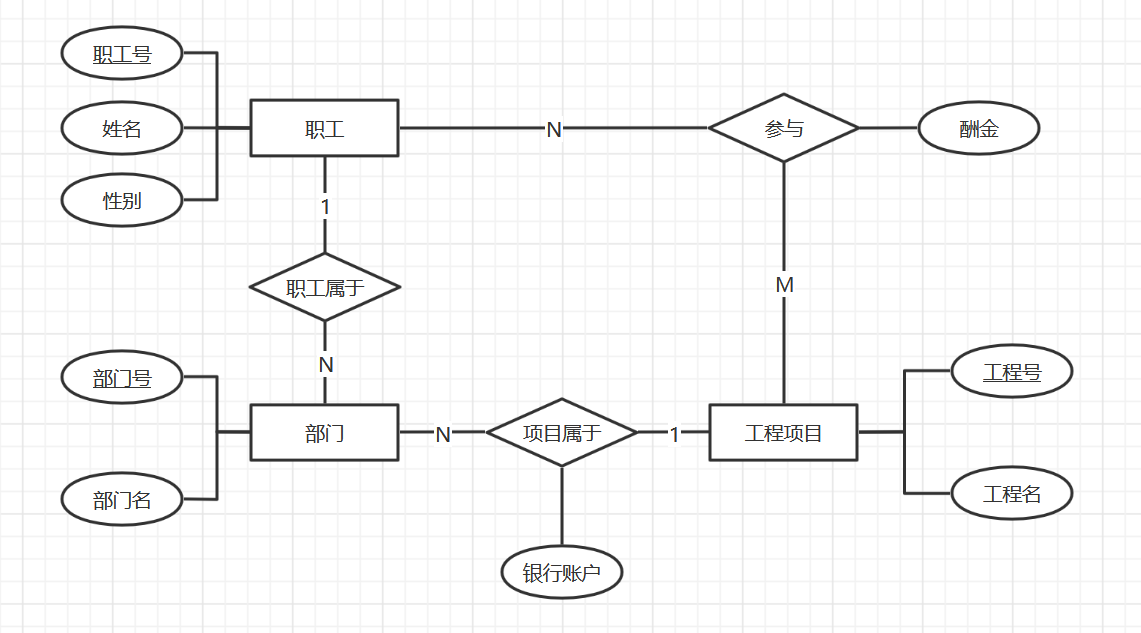
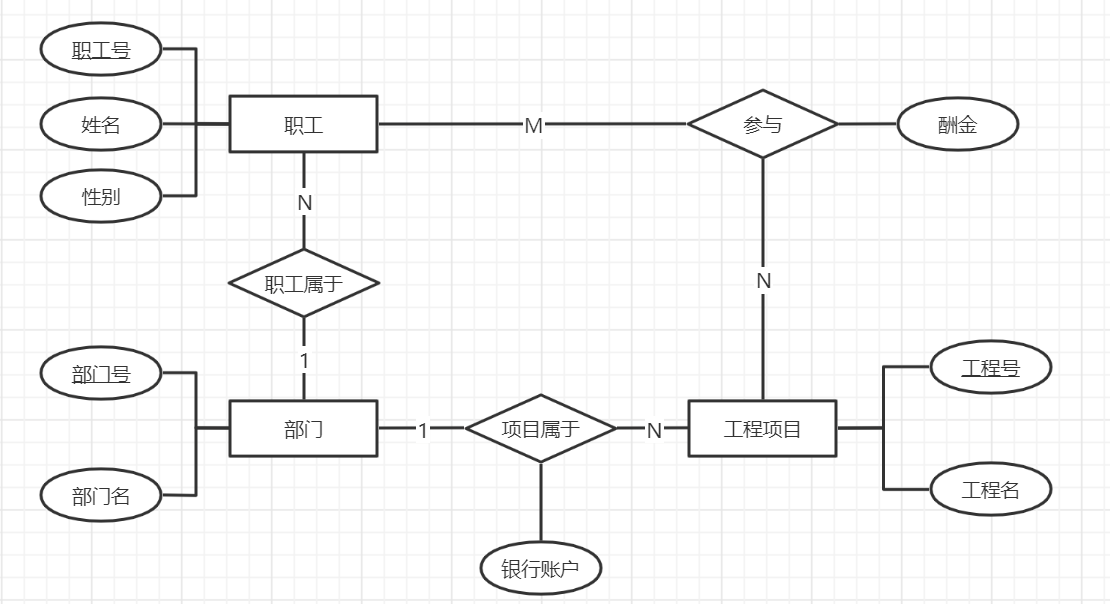
[Database] fix typo

Changed region(s): [[0.0306, 0.0298, 0.9495, 1.0], [0.1838, 0.3278, 0.3676, 0.5662], [0.7964, 0.7152, 0.9495, 0.8642]]

diff --git a/CS/Database/hw/hw4/hw4.md b/CS/Database/hw/hw4/hw4.md
@@ -32,9 +32,9 @@ ER 模型如下图所示:
 3. **工程项目**(<u>工程号</u>, 工程名)
 
 然后转换联系:
-1. 职工:部门 (1:N): **职工**(<u>职工号</u>, 姓名, 性别, 部门号)
-2. 工程项目:部门 (1:N): **工程项目**(<u>工程号</u>, 工程名, 部门号)
-3. 职工:工程项目 (N:M): **参与**(<u>职工号</u>, <u>工程项目号</u>, 酬金)
+1. 职工:部门 (N:1): **职工**(<u>职工号</u>, 姓名, 性别, 部门号)
+2. 工程项目:部门 (N:1): **工程项目**(<u>工程号</u>, 工程名, 部门号)
+3. 职工:工程项目 (M:N): **参与**(<u>职工号</u>, <u>工程项目号</u>, 酬金)
 
 得到初步关系数据库模式:
 1. **职工**(<u>职工号</u>, 姓名, 性别, 部门号)
@@ -74,11 +74,11 @@ ER 模型如下图所示:
 4. **医生**(<u>工作证号</u>, 姓名, 职称, 年龄)
 
 然后转换联系:
-1. 科室:医生 (N:M): **科室拥有医生**(<u>工作证号</u>, <u>科名</u>, 加入科室时间)
-2. 医生主管病人, 医生:病人(N:1): **病人**(<u>病历号</u>, 姓名, 性别, 疾病类型, 医生_工作证号)
-3. 医生负责病人, 医生:病人(N:M): **医生负责病人**(<u>医生_工作证号</u>, <u>病人_病历号</u>)
-4. 病房内病人, 病房:病人(N:1): **病人**(<u>病历号</u>, 姓名, 性别, 疾病类型, 医生_工作证号, 病房_病房号, 入院时间, 床位号)
-5. 科室拥有病房, 科室:病房(N:1): **病房**(<u>病房号</u>, 床位数, 科室号)
+1. 科室:医生 (M:N): **科室拥有医生**(<u>工作证号</u>, <u>科名</u>, 加入科室时间)
+2. 医生主管病人, 医生:病人(1:N): **病人**(<u>病历号</u>, 姓名, 性别, 疾病类型, 医生_工作证号)
+3. 医生负责病人, 医生:病人(M:N): **医生负责病人**(<u>医生_工作证号</u>, <u>病人_病历号</u>)
+4. 病房内病人, 病房:病人(1:N): **病人**(<u>病历号</u>, 姓名, 性别, 疾病类型, 医生_工作证号, 病房_病房号, 入院时间, 床位号)
+5. 科室拥有病房, 科室:病房(1:N): **病房**(<u>病房号</u>, 床位数, 科室号)
 
 得到初步关系数据库模式:
 1. **科室**(<u>科名</u>, 科地址, 科电话)
